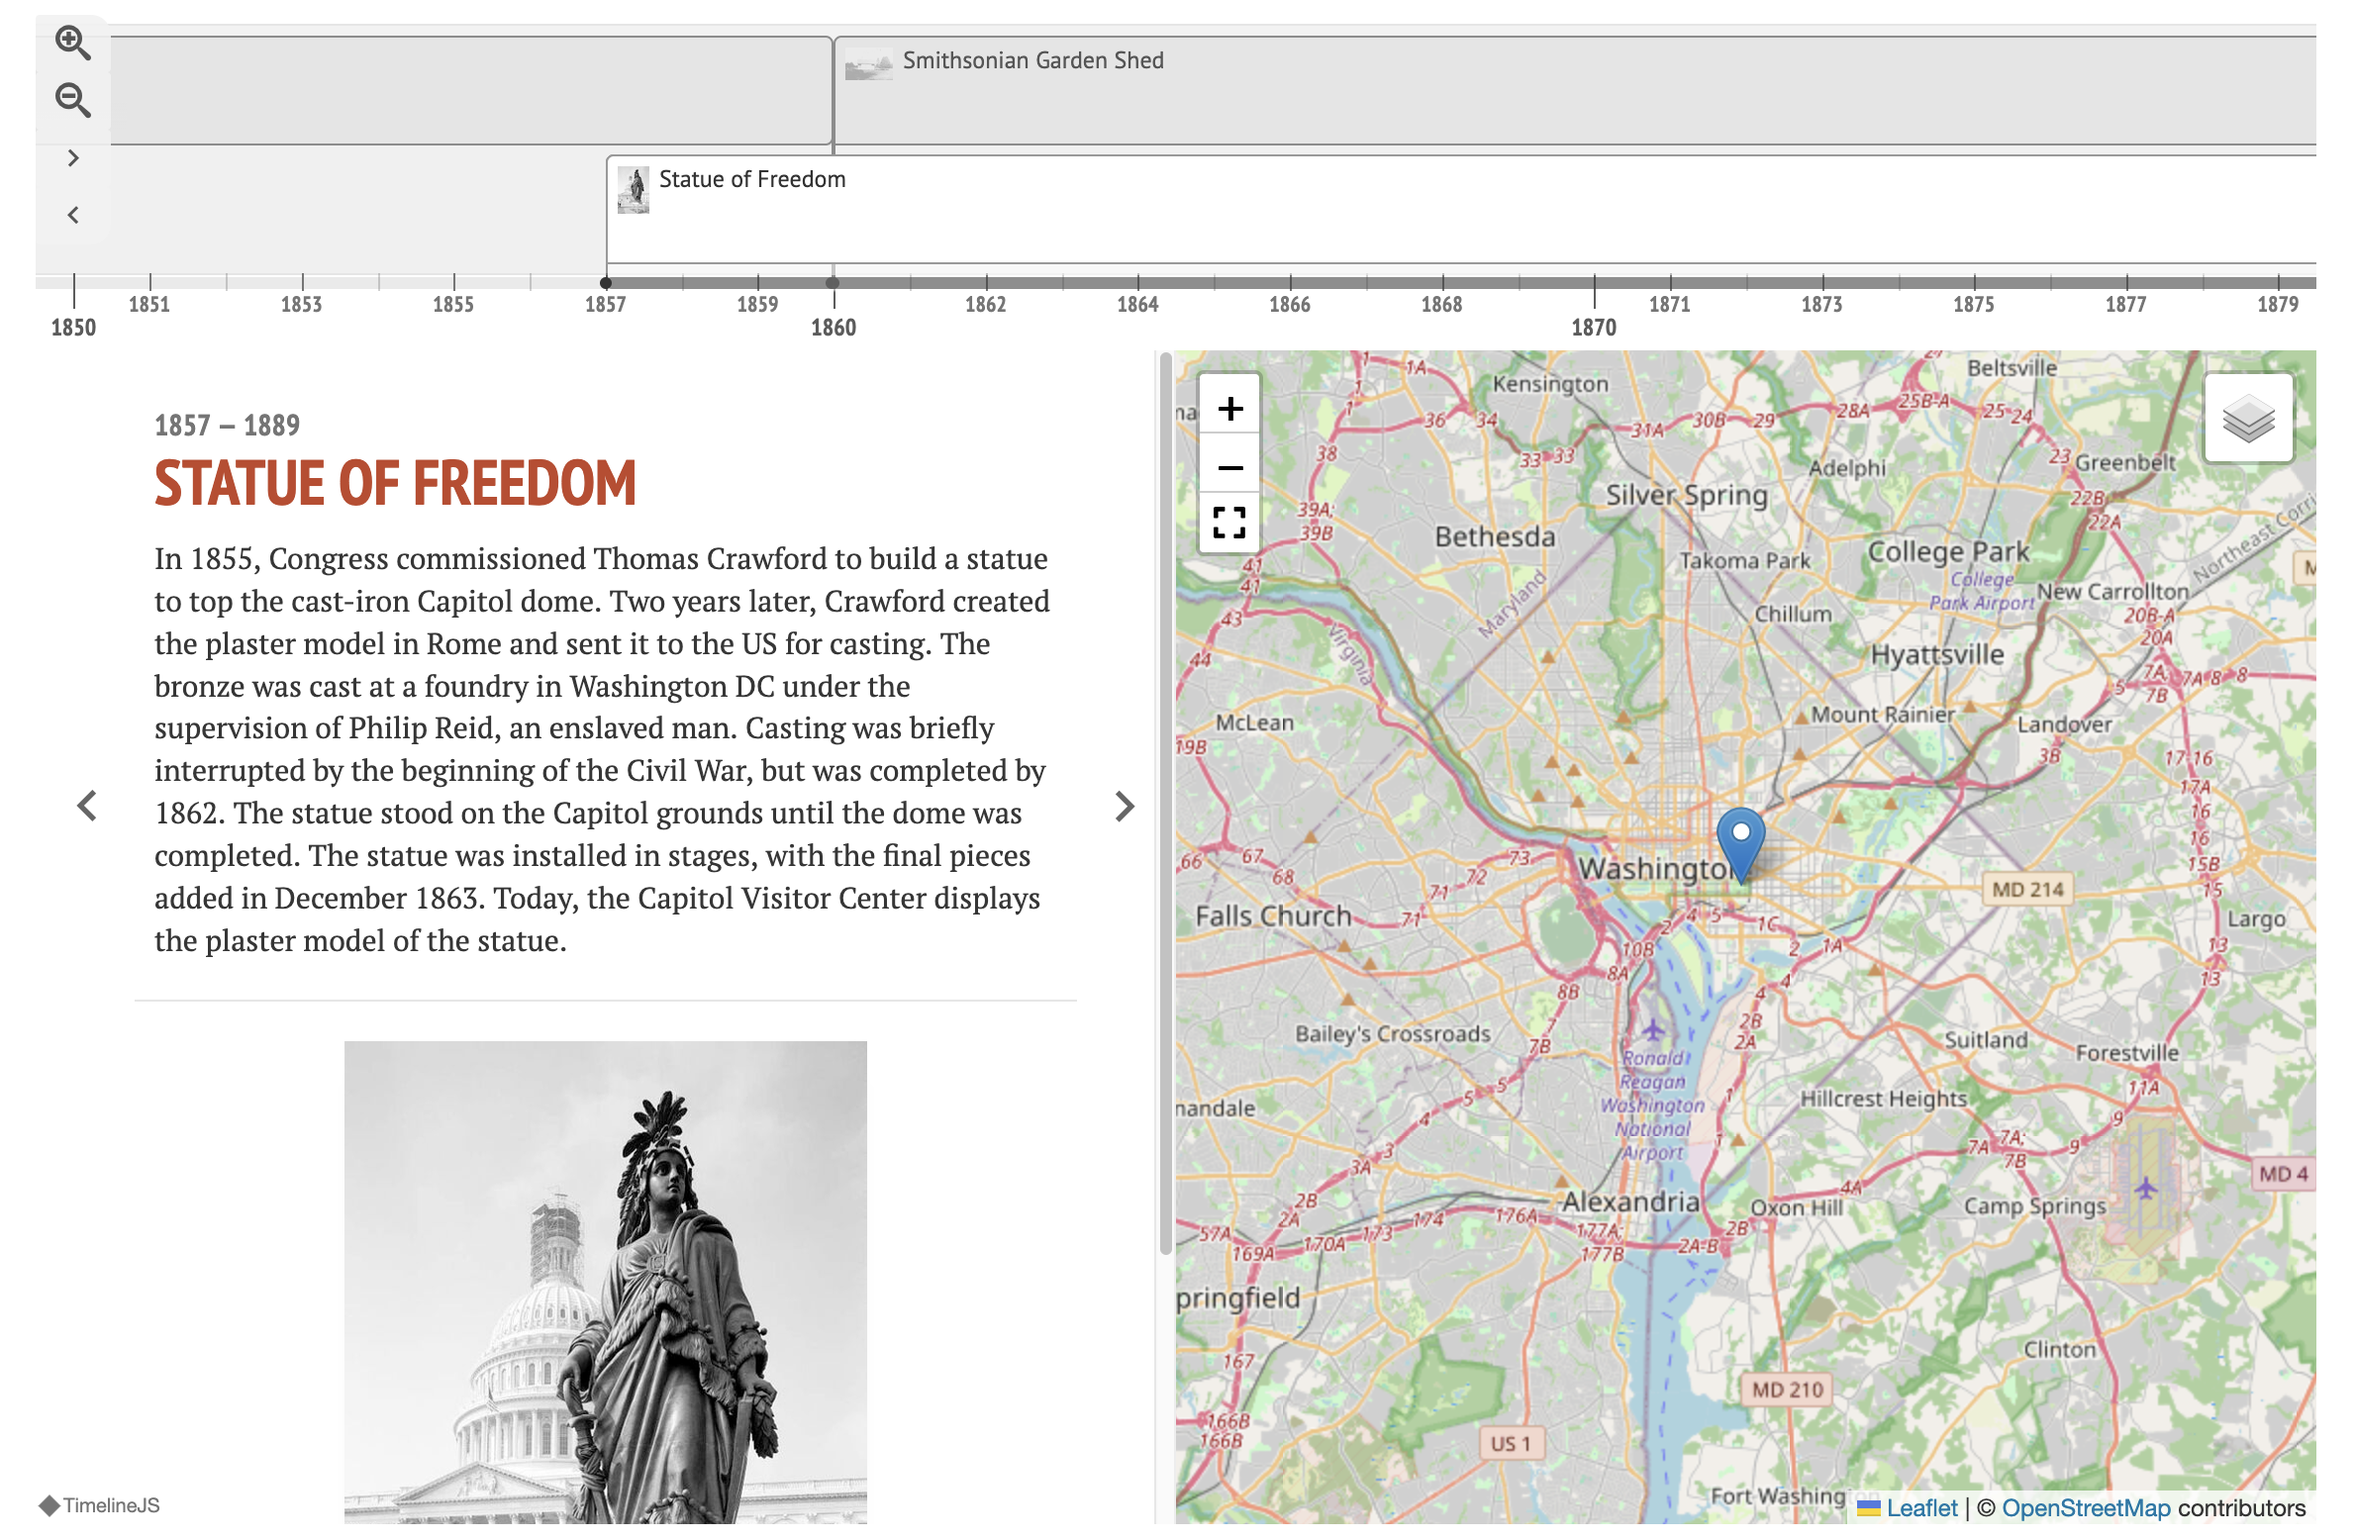
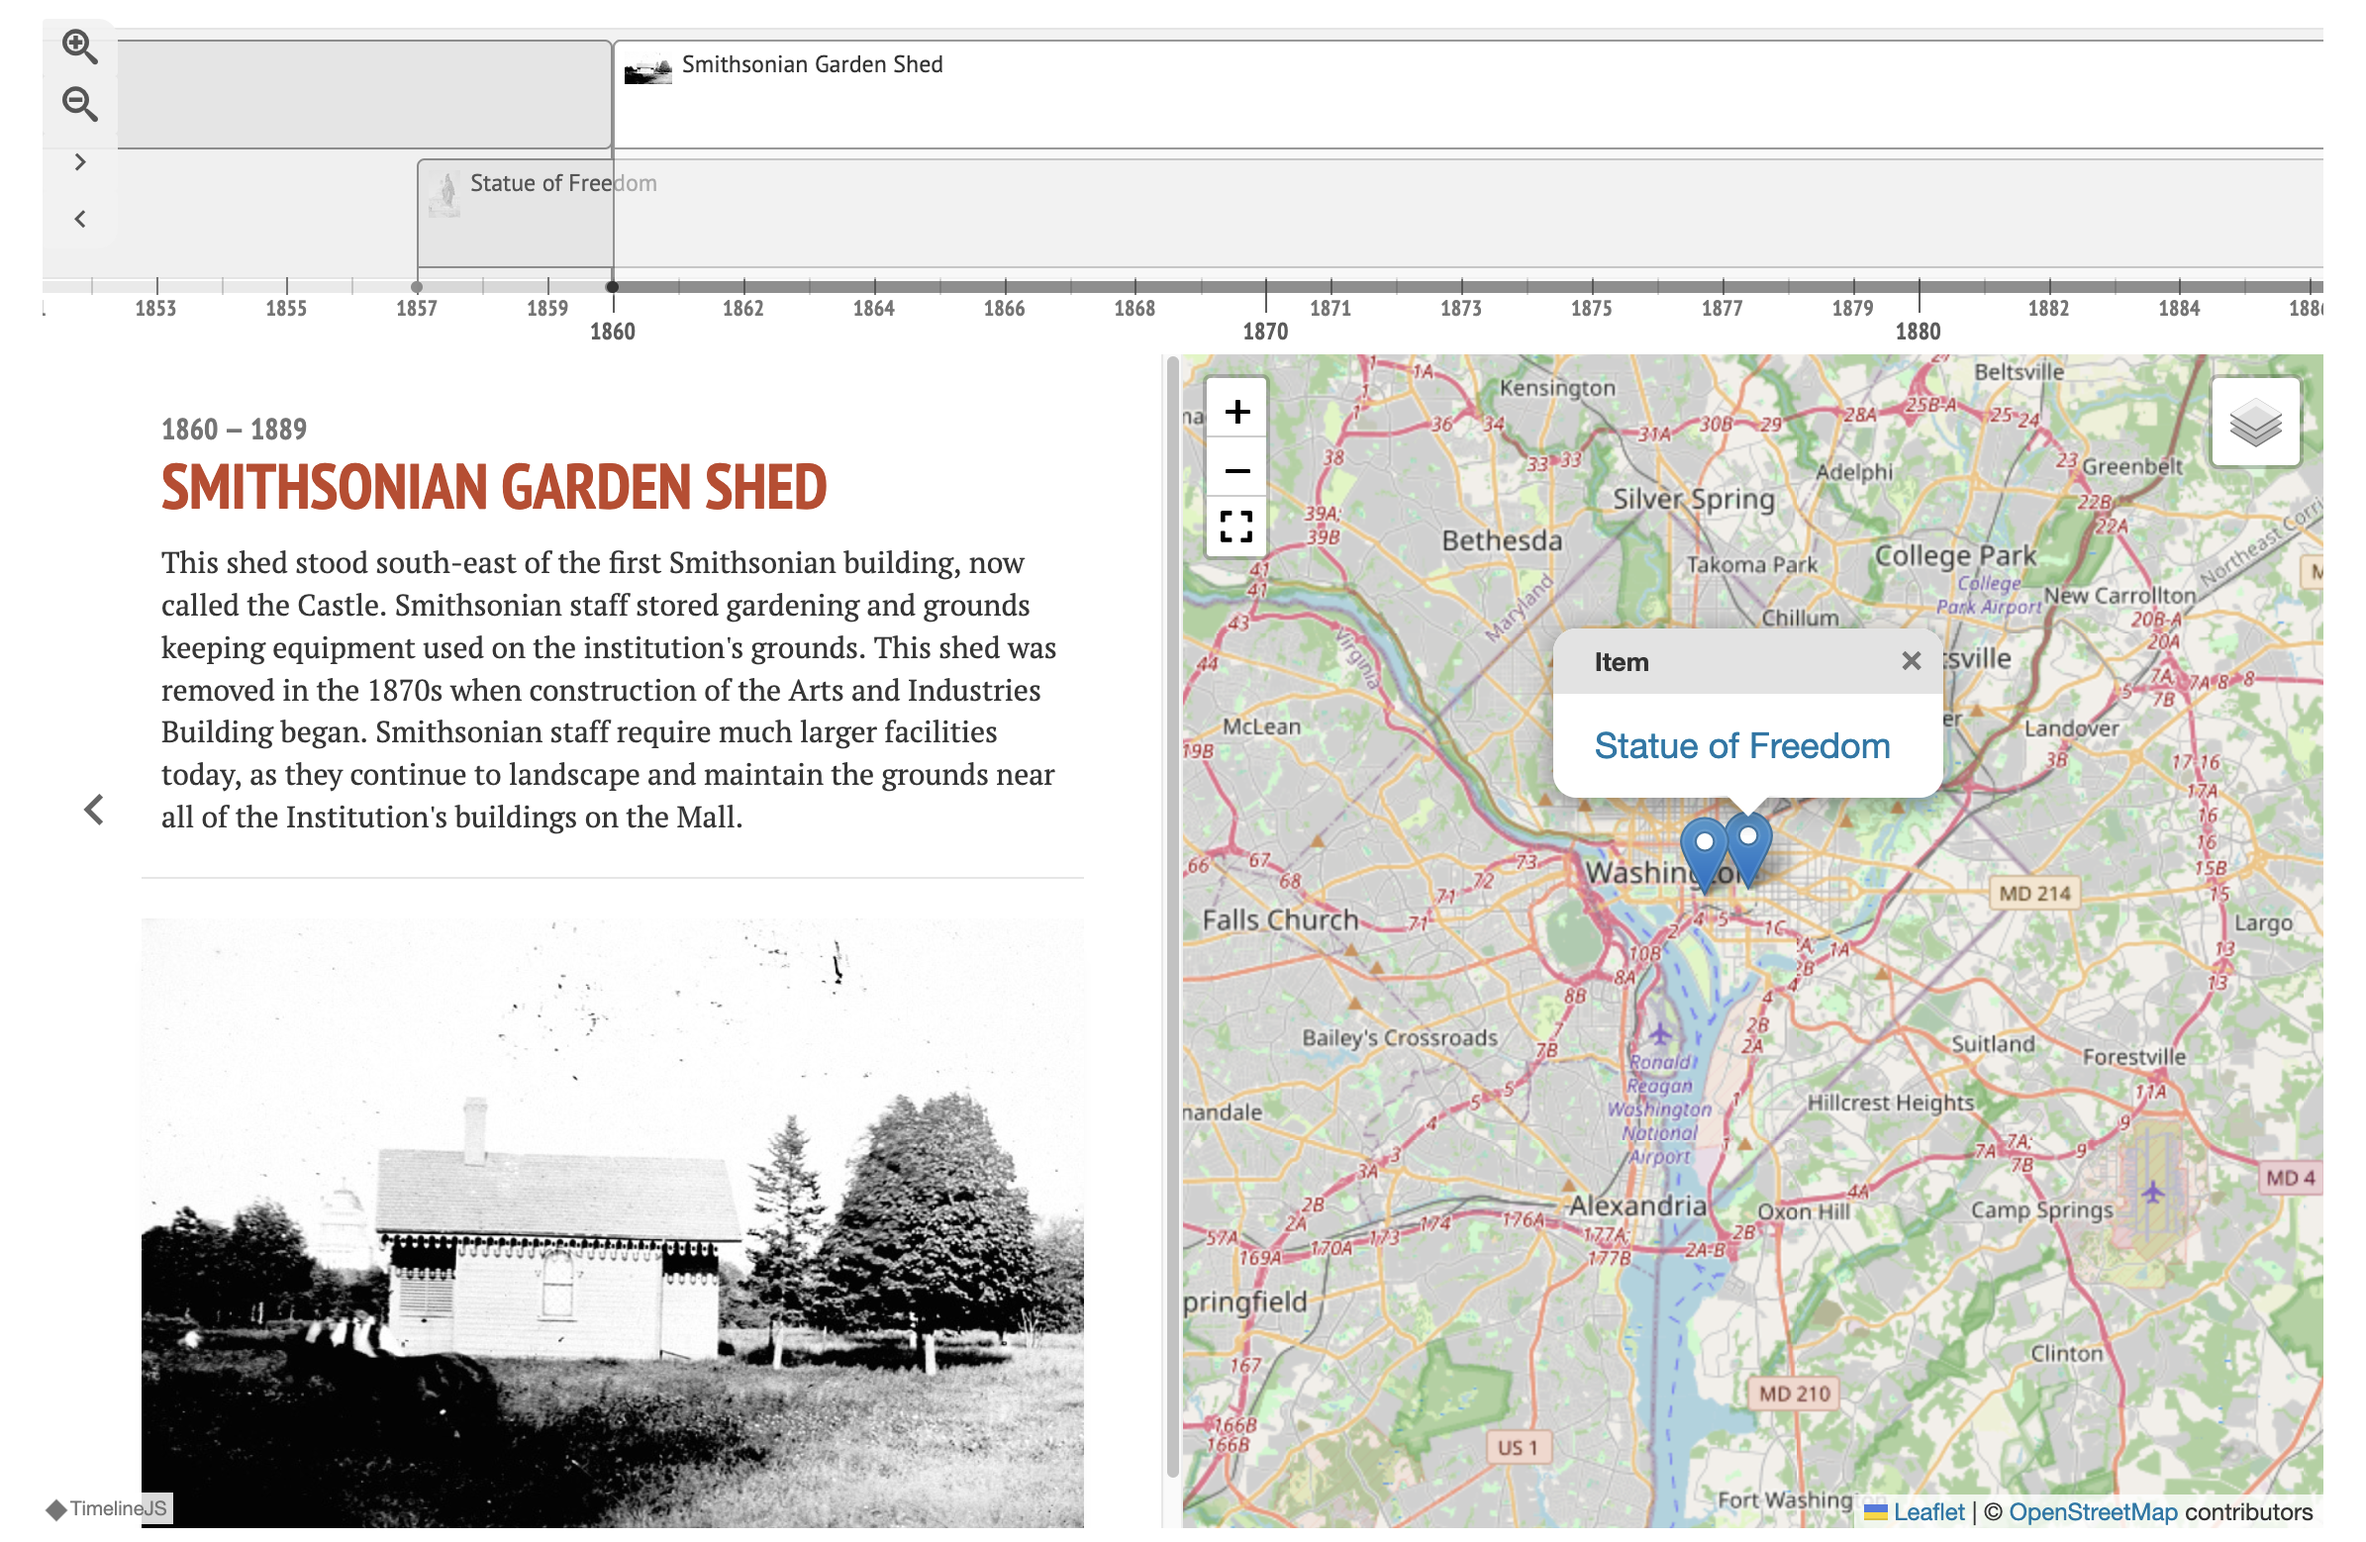
contemporaneous

diff --git a/docs/modules/mapping.md b/docs/modules/mapping.md
@@ -571,15 +571,15 @@ Clicking on a marker will display that item's title, description, date or interv
 
 Whenever an item is selected, its marker in the timeline will show up with a highlight to indicate that it is active.
 
-##### Numeric:Interval appearance
+##### Display of intervals
 
-Interval properties display as a long bar running horizontally across the timeline, with bars reaching down to the timeline at the start and end dates of the interval. Overlapping intervals will stack. In the image below, the timeline is on the "Contrast" theme selected in the settings:
+Interval properties (fields with the data type `numeric:interval`) display as a long bar running horizontally across the timeline, with bars reaching down to the timeline at the start and end dates of the interval. Overlapping intervals will stack. In the image below, the timeline is on the "Contrast" theme selected in the settings:
 
 ![Timeline and map showing two items overlapping in the timeline bar. The timeline bar is above the map.](../modules/modulesfiles/Mapping_timelinePublic3.png)
 
-##### Numeric:Timestamp appearance
+##### Display of timestamps
 
-Timestamp properties display as a flag on the timeline, with one bar anchoring them to the timeline. Items which overlap either due to date or long text will stack. In the image below, the timeline is using the "Default" theme:
+Timestamp properties (fields with the data type `numeric:timestamp`) display as a flag on the timeline, with one bar anchoring them to the timeline. Items which overlap either due to date or long text will stack. In the image below, the timeline is using the "Default" theme:
 
 ![Timestamp timeline with many items shown in proximity. The timeline bar is below the map.](../modules/modulesfiles/Mapping_timelinePublic4.png)
 
@@ -593,15 +593,15 @@ In the images above, you can see examples of the timeline bar shown above the ma
 
 When "Show contemporaneous events" is checked, the map zooms to display all events which take place on the same day.
 
-In the image below, the timeline is using interval data. The event "Reading Abbey Girls' School" (March 1785 - December 1786) takes place within the same period as "Steventon Rectory" (1775-1801), so the map is zoomed out to display the location markers for both events.
+In the image below, the timeline is using interval data. The "Smithsonian Garden Shed" item is in focus, and shows a pin on the map. The "Statue of Freedom" item, which overlaps the first item chronologically in the timeline, is also showing a pin on the map. 
 
-![image as described](../modules/modulesfiles/Mapping_timelinePublicSCE.png)
+![image as described](../modules/modulesfiles/Mapping_timelinePublic3.png)
 
 ## Troubleshooting
 
-- Trouble deleting: If you would like to remove the mapping location from an item, you must delete all the map modifications. First, delete each marker (click the "Delete feature" button, select the markers, click to save). Then clear the map view settings (click the "Clear the default center and zoom level" button). The map will return to a global view. Save the item and confirm that the map no longer appears.
-- Trouble with map tiles: Ensure you have chosen a basemap from our provider list that offers tiles at a high degree of zoom. If not, choose another basemap or go back to the default provider.
-- Trouble with timelines: Ensure you have the Numeric Data Types module installed and active, and that your selected date metadata field is formatted correctly as a Numeric Data Type using resource templates. Items with mapping data but without date data will not show, nor will items with date data but without mapping data, as maps with timelines require both.
-- Trouble with items appearing on your maps: Ensure all items are added to your site under the Resources tab. Ensure the items have valid mapping data in their individual Mapping tabs. Test the Map Browse page, found at `yoursite/mapping/index/browse`. Test a simple Map by Attachments page block with a few items you know are geolocated correctly.
-- Trouble with maps appearing on item pages or item set pages: Add the Mapping resource page block to a region provided by your theme, by going to [Site > Theme > Configure resource pages](../sites/site_theme.md#configure-resource-pages).
-- Trouble saving overlays: There is a "Save overlay" button that must be clicked when an overlay is being entered or edited. Be sure to save each edit and then save the page. 
+- **Trouble deleting**: If you would like to remove the mapping location from an item, you must delete all the map modifications. First, delete each marker (click the "Delete feature" button, select the markers, click to save). Then clear the map view settings (click the "Clear the default center and zoom level" button). The map will return to a global view. Save the item and confirm that the map no longer appears.
+- **Trouble with map tiles**: Ensure you have chosen a basemap from our provider list that offers tiles at a high degree of zoom. If not, choose another basemap or go back to the default provider.
+- **Trouble with timelines**: Ensure you have the Numeric Data Types module installed and active, and that your selected date metadata field is formatted correctly as a Numeric Data Type using resource templates. Items with mapping data but without date data will not show, nor will items with date data but without mapping data, as maps with timelines require both.
+- **Items not appearing on your maps**: Ensure all items are added to your site under the Resources tab. Ensure the items have valid mapping data in their individual Mapping tabs. Test the Map Browse page, found at `yoursite/mapping/index/browse`. Test a simple Map by Attachments page block with a few items you know are geolocated correctly.
+- **Maps not appearing on item pages or item set pages**: Add the Mapping resource page block to a region provided by your theme, by going to [Site > Theme > Configure resource pages](../sites/site_theme.md#configure-resource-pages).
+- **Trouble saving overlays**: There is a "Save overlay" button that must be clicked when an overlay is being entered or edited. Be sure to save each edit and then save the page. 
